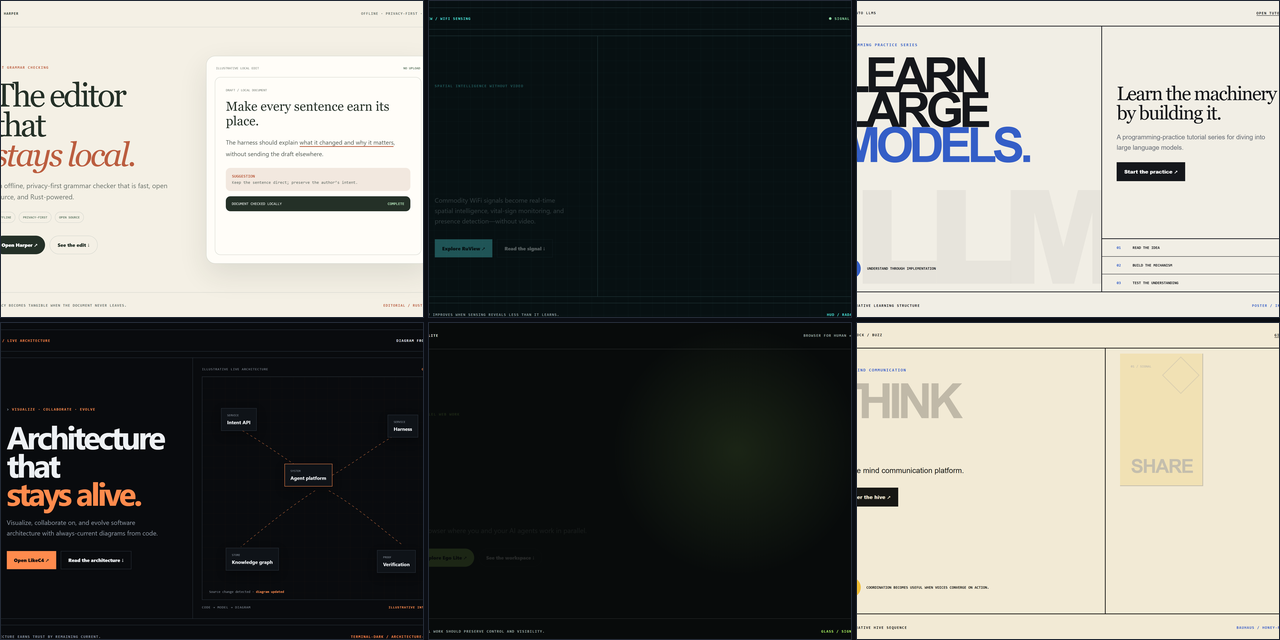
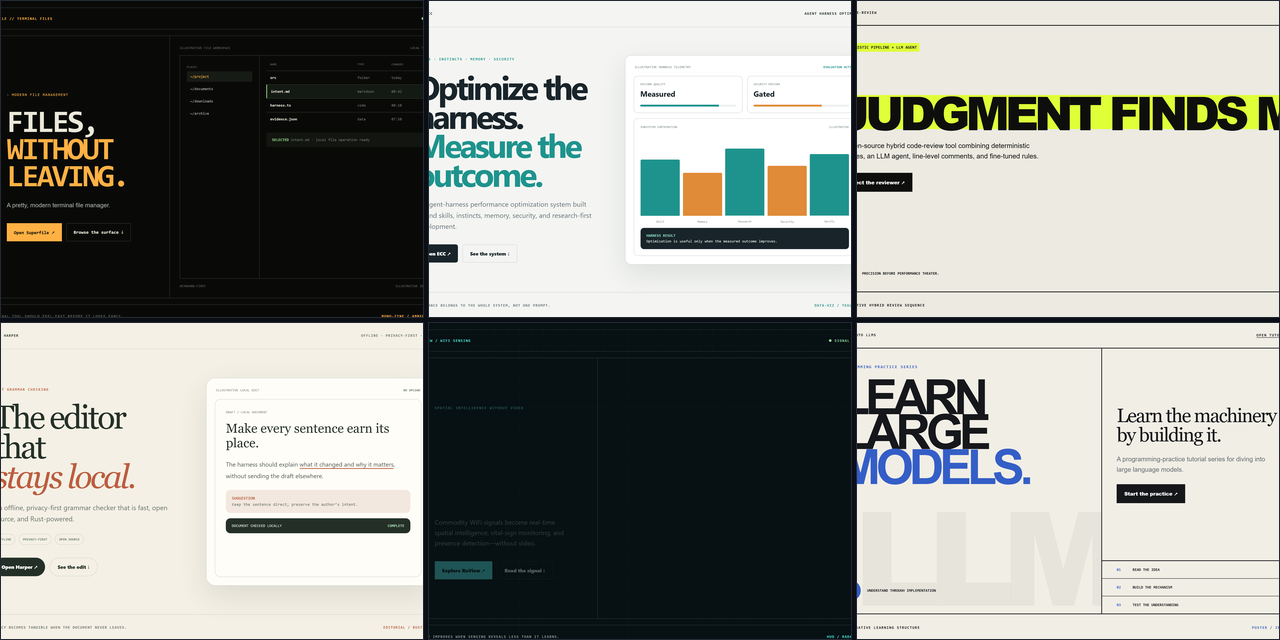
Design rep 2026-07-25: 3 mocks (brutalist/acid-yellow, data-viz/teal-orange, mono-zine/amber-green)

diff --git a/index.html b/index.html
@@ -4,17 +4,17 @@
 <meta charset="utf-8">
 <meta name="viewport" content="width=device-width, initial-scale=1">
 <title>GooseDesigns &mdash; Daily UI Design Inspiration from Trending GitHub Repos</title>
-<meta name="description" content="A fresh set of landing-page and hero-section UI design mockups every morning - AI, agents, dev tools, LLMs. Browse 129 mocks across 43 days in rotating visual styles.">
+<meta name="description" content="A fresh set of landing-page and hero-section UI design mockups every morning - AI, agents, dev tools, LLMs. Browse 132 mocks across 44 days in rotating visual styles.">
 <link rel="canonical" href="https://newgoosefactory.github.io/GooseDesigns/">
 <meta name="theme-color" content="#0b0e14">
 <meta property="og:type" content="website">
 <meta property="og:title" content="GooseDesigns &mdash; Daily UI Design Inspiration">
-<meta property="og:description" content="A fresh set of landing-page and hero-section UI design mockups every morning - AI, agents, dev tools, LLMs. Browse 129 mocks across 43 days in rotating visual styles.">
+<meta property="og:description" content="A fresh set of landing-page and hero-section UI design mockups every morning - AI, agents, dev tools, LLMs. Browse 132 mocks across 44 days in rotating visual styles.">
 <meta property="og:image" content="https://newgoosefactory.github.io/GooseDesigns/assets/banner.png">
 <meta property="og:url" content="https://newgoosefactory.github.io/GooseDesigns/">
 <meta name="twitter:card" content="summary_large_image">
 <meta name="twitter:title" content="GooseDesigns &mdash; Daily UI Design Inspiration">
-<meta name="twitter:description" content="A fresh set of landing-page and hero-section UI design mockups every morning - AI, agents, dev tools, LLMs. Browse 129 mocks across 43 days in rotating visual styles.">
+<meta name="twitter:description" content="A fresh set of landing-page and hero-section UI design mockups every morning - AI, agents, dev tools, LLMs. Browse 132 mocks across 44 days in rotating visual styles.">
 <meta name="twitter:image" content="https://newgoosefactory.github.io/GooseDesigns/assets/banner.png">
 <script>document.documentElement.className='js';</script>
 <style>:root{--bg:#0b0e14;--panel:#0f141d;--border:#1f2733;--text:#e6edf3;--muted:#8b98a9;--accent:#5eead4;--maxw:1120px}
@@ -88,17 +88,17 @@ html.js.revealed .reveal{opacity:1;transform:none}
 <main class="content">
   <p class="lead reveal">A fresh set of landing-page &amp; hero-section UI mockups every morning &mdash; AI, agents, dev tools, LLMs &mdash; each reimagined in a rotating visual style.</p>
   <section class="stats reveal">
-    <div><b>129</b><span>mocks</span></div>
-    <div><b>43</b><span>days</span></div>
+    <div><b>132</b><span>mocks</span></div>
+    <div><b>44</b><span>days</span></div>
     <div><b>14</b><span>style families</span></div>
     <div><b>Daily</b><span>updated 6am CT</span></div>
   </section>
   <section class="reveal">
-    <div class="sec-head"><h2>Latest &mdash; Friday, July 24</h2><a class="more" href="catalog.html?day=2026-07-24">See all 129 in the catalog &rarr;</a></div>
+    <div class="sec-head"><h2>Latest &mdash; Saturday, July 25</h2><a class="more" href="catalog.html?day=2026-07-25">See all 132 in the catalog &rarr;</a></div>
     <div class="grid">
-      <a class="mock" href="days/2026-07-24/01-dive-into-llms.html"><span class="shot"><img loading="lazy" src="days/2026-07-24/01-dive-into-llms.png" alt="Lordog/dive-into-llms landing-page hero mock, poster style"></span><span class="mm"><b>Lordog/dive-into-llms</b><i>poster</i></span></a>
-      <a class="mock" href="days/2026-07-24/02-ruview.html"><span class="shot"><img loading="lazy" src="days/2026-07-24/02-ruview.png" alt="ruvnet/RuView landing-page hero mock, hud style"></span><span class="mm"><b>ruvnet/RuView</b><i>hud</i></span></a>
-      <a class="mock" href="days/2026-07-24/03-harper.html"><span class="shot"><img loading="lazy" src="days/2026-07-24/03-harper.png" alt="Automattic/harper landing-page hero mock, editorial style"></span><span class="mm"><b>Automattic/harper</b><i>editorial</i></span></a>
+      <a class="mock" href="days/2026-07-25/01-open-code-review.html"><span class="shot"><img loading="lazy" src="days/2026-07-25/01-open-code-review.png" alt="alibaba/open-code-review landing-page hero mock, brutalist style"></span><span class="mm"><b>alibaba/open-code-review</b><i>brutalist</i></span></a>
+      <a class="mock" href="days/2026-07-25/02-ecc.html"><span class="shot"><img loading="lazy" src="days/2026-07-25/02-ecc.png" alt="affaan-m/ECC landing-page hero mock, data-viz style"></span><span class="mm"><b>affaan-m/ECC</b><i>data-viz</i></span></a>
+      <a class="mock" href="days/2026-07-25/03-superfile.html"><span class="shot"><img loading="lazy" src="days/2026-07-25/03-superfile.png" alt="yorukot/superfile landing-page hero mock, mono-zine style"></span><span class="mm"><b>yorukot/superfile</b><i>mono-zine</i></span></a>
     </div>
   </section>
   <section class="reveal">
@@ -121,7 +121,7 @@ html.js.revealed .reveal{opacity:1;transform:none}
     </div>
   </section>
   <section class="reveal cta">
-    <a class="btn primary" href="catalog.html">Browse all 129 mocks &rarr;</a>
+    <a class="btn primary" href="catalog.html">Browse all 132 mocks &rarr;</a>
     <a class="btn" href="https://github.com/NewGooseFactory/GooseDesigns">View source on GitHub</a>
   </section>
   <footer class="foot reveal">An automation reads GitHub Trending each morning, designs hero mocks in a rotating style, and regenerates this gallery &mdash; no generic AI-gradient slop. &middot; <a href="https://github.com/NewGooseFactory/GooseDesigns/blob/main/DESIGN.md">Design system</a> &middot; <a href="https://github.com/NewGooseFactory/GooseDesigns/blob/main/ledger.md">Taste ledger</a></footer>

diff --git a/days/2026-07-25/02-ecc.html b/days/2026-07-25/02-ecc.html
@@ -1,0 +1,4 @@
+<!doctype html><html lang="en"><head><meta charset="utf-8"><meta name="viewport" content="width=device-width,initial-scale=1"><title>ECC — Optimize the Harness, Not the Hype</title><style>
+:root{--bg:#f4f5f2;--ink:#18242a;--teal:#1e938d;--orange:#df8b38;--muted:#68747a;--line:#d0d6d4;--card:#fff}*{box-sizing:border-box}html{background:var(--bg);color:var(--ink);font-family:Inter,"Segoe UI",Arial,sans-serif}body{margin:0;min-height:100vh}.page{min-height:100vh;display:grid;grid-template-rows:72px 1fr 68px;padding:0 34px}.nav,.foot{display:flex;align-items:center;justify-content:space-between;border-color:var(--line);font:600 10px ui-monospace,SFMono-Regular,Consolas,monospace;text-transform:uppercase;letter-spacing:.11em}.nav{border-bottom:1px solid var(--line)}.foot{border-top:1px solid var(--line);color:var(--muted)}.brand{display:flex;align-items:center;gap:11px}.brand:before{content:"E";width:28px;height:28px;display:grid;place-items:center;background:var(--teal);color:white;font-weight:800}.hero{display:grid;grid-template-columns:.86fr 1.14fr;gap:6vw;align-items:center;padding:6vh 1vw}.copy{max-width:650px}.eyebrow{color:var(--teal);font:700 10px ui-monospace,monospace;letter-spacing:.14em;text-transform:uppercase}h1{font-size:clamp(62px,6.8vw,108px);line-height:.88;letter-spacing:-.075em;margin:28px 0}h1 em{display:block;color:var(--teal);font-style:normal}.lede{font-size:18px;line-height:1.62;color:var(--muted);max-width:600px;margin:0}.actions{display:flex;gap:12px;flex-wrap:wrap;margin-top:34px}.btn{min-height:48px;padding:0 19px;display:inline-flex;align-items:center;background:var(--ink);color:white;text-decoration:none;font-size:13px;font-weight:800;border-radius:6px}.btn.alt{background:transparent;color:var(--ink);border:1px solid var(--line)}.btn:hover,.btn:focus-visible{background:var(--teal);color:white;transform:translateY(-2px)}.dash{border:1px solid var(--line);border-radius:16px;background:var(--card);padding:22px;box-shadow:0 25px 70px rgba(24,36,42,.1)}.dash-head{display:flex;justify-content:space-between;padding:3px 2px 18px;color:var(--muted);font:500 9px ui-monospace,monospace;text-transform:uppercase}.dash-head strong{color:var(--teal)}.score{display:grid;grid-template-columns:1fr 1fr;gap:12px}.metric{border:1px solid var(--line);border-radius:11px;padding:16px}.metric small{display:block;color:var(--muted);font:500 8px ui-monospace,monospace;text-transform:uppercase}.metric b{display:block;font-size:20px;margin-top:7px}.meter{height:5px;background:#edf0ee;margin-top:16px;overflow:hidden;border-radius:5px}.meter i{display:block;height:100%;background:var(--teal)}.metric:nth-child(2) .meter i{background:var(--orange)}.chart{margin-top:14px;border:1px solid var(--line);border-radius:11px;padding:17px}.chart-title{display:flex;justify-content:space-between;color:var(--muted);font:500 8px ui-monospace,monospace;text-transform:uppercase}.bars{height:230px;display:flex;align-items:flex-end;gap:8px;padding-top:24px}.bar{flex:1;background:var(--teal);border-radius:3px 3px 0 0;position:relative}.bar:nth-child(2n){background:var(--orange)}.bar span{position:absolute;bottom:-20px;left:50%;transform:translateX(-50%);color:var(--muted);font:8px ui-monospace,monospace}.note{margin-top:32px;padding:13px 15px;background:var(--ink);color:#d8dedb;border-radius:9px;font:10px/1.5 ui-monospace,monospace}.note strong{color:#8cd8c3}.foot strong{color:var(--teal)}
+@media(max-width:900px){.hero{grid-template-columns:1fr;padding:60px 0;gap:50px}.page{padding:0 18px}}@media(max-width:560px){h1{font-size:53px}.score{grid-template-columns:1fr}.foot{padding:18px 0;gap:12px;align-items:flex-start;flex-direction:column}}@media(prefers-reduced-motion:no-preference){.copy>*{animation:rise .62s cubic-bezier(.22,1,.36,1) both}.copy h1{animation-delay:.06s}.dash{animation:rise .72s .08s cubic-bezier(.22,1,.36,1) both}.bar{animation:grow .8s .35s cubic-bezier(.22,1,.36,1) both;transform-origin:bottom}@keyframes rise{from{opacity:0;transform:translateY(17px)}}@keyframes grow{from{transform:scaleY(.08)}}}
+</style></head><body><main class="page"><nav class="nav"><div class="brand">ECC</div><span>Agent harness optimization</span></nav><section class="hero"><div class="copy"><div class="eyebrow">Skills · instincts · memory · security</div><h1>Optimize the harness.<em>Measure the outcome.</em></h1><p class="lede">An agent-harness performance optimization system built around skills, instincts, memory, security, and research-first development.</p><div class="actions"><a class="btn" href="https://github.com/affaan-m/ECC">Open ECC ↗</a><a class="btn alt" href="#metrics">See the system ↓</a></div></div><div class="dash" id="metrics"><div class="dash-head"><span>Illustrative harness telemetry</span><strong>Evaluation active</strong></div><div class="score"><div class="metric"><small>Outcome quality</small><b>Measured</b><div class="meter"><i style="width:82%"></i></div></div><div class="metric"><small>Security posture</small><b>Gated</b><div class="meter"><i style="width:71%"></i></div></div></div><div class="chart"><div class="chart-title"><span>Subsystem contribution</span><span>Illustrative</span></div><div class="bars"><div class="bar" style="height:72%"><span>Skill</span></div><div class="bar" style="height:55%"><span>Memory</span></div><div class="bar" style="height:86%"><span>Research</span></div><div class="bar" style="height:64%"><span>Security</span></div><div class="bar" style="height:79%"><span>Verify</span></div></div><div class="note"><strong>HARNESS RESULT</strong><br>Optimization is useful only when the measured outcome improves.</div></div></div></section><footer class="foot"><span>Performance belongs to the whole system, not one prompt.</span><strong>data-viz / teal-orange</strong></footer></main></body></html>

diff --git a/days/2026-07-25/03-superfile.html b/days/2026-07-25/03-superfile.html
@@ -1,0 +1,4 @@
+<!doctype html><html lang="en"><head><meta charset="utf-8"><meta name="viewport" content="width=device-width,initial-scale=1"><title>Superfile — Files, Without Leaving the Terminal</title><style>
+:root{--black:#090a08;--paper:#ece9da;--amber:#ffb144;--green:#9ddd89;--muted:#737970;--line:#30352e}*{box-sizing:border-box}html{background:var(--black);color:var(--paper);font-family:ui-monospace,SFMono-Regular,Consolas,monospace}body{margin:0;min-height:100vh;background:repeating-linear-gradient(0deg,transparent 0 3px,rgba(255,255,255,.012) 4px)}.page{min-height:100vh;padding:20px;display:grid;grid-template-rows:58px 1fr 62px;gap:16px}.bar,.foot{border:1px solid var(--line);display:flex;align-items:center;justify-content:space-between;padding:0 17px;text-transform:uppercase;font-size:10px;letter-spacing:.12em}.brand{color:var(--amber);font-weight:700}.status{display:flex;align-items:center;gap:8px;color:var(--green)}.status:before{content:"";width:7px;height:7px;border-radius:50%;background:var(--green)}.hero{display:grid;grid-template-columns:.82fr 1.18fr;border:1px solid var(--line)}.copy{padding:clamp(44px,6vw,86px);border-right:1px solid var(--line);display:flex;flex-direction:column;justify-content:center}.prompt{color:var(--amber);font-size:10px;text-transform:uppercase;letter-spacing:.13em}.prompt:before{content:"> ";color:var(--muted)}h1{font-size:clamp(58px,6.5vw,103px);line-height:.86;letter-spacing:-.07em;text-transform:uppercase;margin:29px 0}h1 span{display:block;color:var(--amber)}.lede{color:#a9afa7;font:16px/1.65 Arial,"Segoe UI",sans-serif;max-width:580px;margin:0}.actions{display:flex;gap:12px;margin-top:34px;flex-wrap:wrap}.btn{min-height:48px;padding:0 18px;display:inline-flex;align-items:center;border:1px solid var(--amber);background:var(--amber);color:var(--black);text-decoration:none;font-size:12px;font-weight:800}.btn.alt{background:transparent;color:var(--paper);border-color:var(--line)}.btn:hover,.btn:focus-visible{box-shadow:0 0 0 4px rgba(255,177,68,.1);transform:translateY(-2px)}.terminal{padding:26px;display:grid;grid-template-rows:auto 1fr auto;gap:14px}.term-head,.term-foot{display:flex;justify-content:space-between;color:var(--muted);font-size:9px;text-transform:uppercase}.window{border:1px solid var(--line);min-height:590px;display:grid;grid-template-columns:210px 1fr}.tree{border-right:1px solid var(--line);padding:18px}.tree small{color:var(--muted);font-size:8px;text-transform:uppercase}.entry{padding:8px 9px;margin-top:5px;color:#aeb4ab;font-size:10px}.entry.active{background:#171b15;color:var(--amber)}.files{padding:18px}.files-head{display:grid;grid-template-columns:1fr 90px 90px;padding:0 10px 12px;color:var(--muted);font-size:8px;text-transform:uppercase}.row{display:grid;grid-template-columns:1fr 90px 90px;align-items:center;padding:12px 10px;border-top:1px solid var(--line);font-size:10px}.row b{color:var(--paper)}.row span{color:var(--muted)}.row.selected{background:#131913;border-left:2px solid var(--green)}.command{margin-top:18px;padding:13px 15px;background:#121510;color:var(--muted);font-size:10px}.command strong{color:var(--green)}.foot{color:var(--muted)}.foot strong{color:var(--amber)}
+@media(max-width:900px){.hero{grid-template-columns:1fr}.copy{border-right:0;border-bottom:1px solid var(--line)}.page{padding:10px}}@media(max-width:560px){h1{font-size:52px}.window{grid-template-columns:1fr}.tree{display:none}.files-head,.row{grid-template-columns:1fr 70px}.files-head span:last-child,.row span:last-child{display:none}.foot{padding:18px;gap:12px;align-items:flex-start;flex-direction:column}}@media(prefers-reduced-motion:no-preference){.copy>*{animation:rise .62s cubic-bezier(.22,1,.36,1) both}.copy h1{animation-delay:.06s}.terminal{animation:rise .72s .08s cubic-bezier(.22,1,.36,1) both}@keyframes rise{from{opacity:0;transform:translateY(17px)}}}
+</style></head><body><main class="page"><header class="bar"><div class="brand">superfile // terminal files</div><div class="status">ready</div></header><section class="hero"><div class="copy"><div class="prompt">Modern file management</div><h1>Files,<span>without leaving.</span></h1><p class="lede">A pretty, modern terminal file manager.</p><div class="actions"><a class="btn" href="https://github.com/yorukot/superfile">Open Superfile ↗</a><a class="btn alt" href="#files">Browse the surface ↓</a></div></div><div class="terminal" id="files"><div class="term-head"><span>Illustrative file workspace</span><span>local terminal</span></div><div class="window"><aside class="tree"><small>Places</small><div class="entry active">~/project</div><div class="entry">~/documents</div><div class="entry">~/downloads</div><div class="entry">~/archive</div></aside><section class="files"><div class="files-head"><span>Name</span><span>Type</span><span>Changed</span></div><div class="row"><b>src</b><span>folder</span><span>today</span></div><div class="row selected"><b>intent.md</b><span>markdown</span><span>08:42</span></div><div class="row"><b>harness.ts</b><span>code</span><span>08:10</span></div><div class="row"><b>evidence.json</b><span>data</span><span>07:58</span></div><div class="command"><strong>SELECTED</strong> intent.md · local file operation ready</div></section></div><div class="term-foot"><span>Keyboard-first</span><span>Illustrative interface</span></div></div></section><footer class="foot"><span>A terminal tool should feel fast before it looks fancy.</span><strong>mono-zine / amber-green</strong></footer></main></body></html>

diff --git a/days/2026-07-25/01-open-code-review.html b/days/2026-07-25/01-open-code-review.html
@@ -1,0 +1,4 @@
+<!doctype html><html lang="en"><head><meta charset="utf-8"><meta name="viewport" content="width=device-width,initial-scale=1"><title>Open Code Review — Determinism Meets Judgment</title><style>
+:root{--paper:#eceae1;--ink:#0e0f0d;--acid:#dfff38;--muted:#5d6159;--line:#0e0f0d}*{box-sizing:border-box}html{background:var(--paper);color:var(--ink);font-family:Arial,Helvetica,sans-serif}body{margin:0;min-height:100vh}.page{min-height:100vh;display:grid;grid-template-rows:68px 1fr 70px;padding:0 28px}.nav,.foot{display:flex;align-items:center;justify-content:space-between;border-color:var(--line);font:800 10px ui-monospace,SFMono-Regular,Consolas,monospace;text-transform:uppercase;letter-spacing:.12em}.nav{border-bottom:2px solid var(--line)}.foot{border-top:2px solid var(--line)}.nav a{color:inherit;text-decoration:none;border-bottom:1px solid var(--ink)}.hero{display:grid;grid-template-columns:1.05fr .95fr;min-height:700px}.copy{padding:6vh 5vw 5vh 0;border-right:2px solid var(--line);display:flex;flex-direction:column;justify-content:space-between}.kicker{font:800 11px ui-monospace,monospace;text-transform:uppercase}.kicker span{background:var(--acid);padding:5px 7px}h1{font-size:clamp(72px,9.6vw,150px);line-height:.73;letter-spacing:-.095em;text-transform:uppercase;margin:30px 0}h1 strong{display:block;width:max-content;background:var(--acid);padding:0 .05em}.lede{font-size:18px;line-height:1.55;max-width:590px;margin:0}.btn{display:inline-flex;align-items:center;align-self:flex-start;min-height:50px;padding:0 20px;margin-top:30px;background:var(--ink);color:white;text-decoration:none;font-size:13px;font-weight:800}.btn:hover,.btn:focus-visible{background:var(--acid);color:var(--ink)}.rule{font:700 10px ui-monospace,monospace;text-transform:uppercase}.rule:before{content:"";display:inline-block;width:54px;height:2px;background:var(--ink);margin-right:14px;vertical-align:middle}.review{display:grid;grid-template-rows:repeat(4,1fr);padding-left:3vw}.stage{border-bottom:2px solid var(--line);display:grid;grid-template-columns:58px 1fr auto;align-items:center;gap:14px}.stage:last-child{border-bottom:0}.num{font:800 12px ui-monospace,monospace}.stage h2{font-size:clamp(28px,3.6vw,54px);text-transform:uppercase;letter-spacing:-.055em;margin:0}.stage p{font-size:12px;color:var(--muted);margin:6px 0 0}.badge{border:2px solid var(--ink);padding:7px 9px;font:800 8px ui-monospace,monospace;text-transform:uppercase}.stage:nth-child(3) .badge{background:var(--acid)}.foot span:last-child{background:var(--acid);padding:6px 8px}
+@media(max-width:850px){.page{padding:0 16px}.hero{grid-template-columns:1fr}.copy{border-right:0;border-bottom:2px solid var(--line);min-height:600px;padding-right:0}.review{padding-left:0}.stage{min-height:170px}}@media(max-width:560px){h1{font-size:61px}.stage{grid-template-columns:40px 1fr}.badge{grid-column:2;justify-self:start}.foot{padding:18px 0;gap:12px;align-items:flex-start;flex-direction:column}}@media(prefers-reduced-motion:no-preference){h1>*{animation:slide .62s cubic-bezier(.22,1,.36,1) both}h1 strong{animation-delay:.08s}.stage{animation:rise .65s cubic-bezier(.22,1,.36,1) both}.stage:nth-child(2){animation-delay:.06s}.stage:nth-child(3){animation-delay:.12s}.stage:nth-child(4){animation-delay:.18s}@keyframes slide{from{opacity:0;transform:translateX(-24px)}}@keyframes rise{from{opacity:0;transform:translateY(17px)}}}
+</style></head><body><main class="page"><nav class="nav"><strong>open-code-review</strong><a href="https://github.com/alibaba/open-code-review">GitHub ↗</a></nav><section class="hero"><div class="copy"><div><div class="kicker"><span>Deterministic pipeline + LLM agent</span></div><h1><span>Rules find risk.</span><strong>Judgment finds meaning.</strong></h1><p class="lede">An open-source hybrid code-review tool combining deterministic pipelines, an LLM agent, line-level comments, and fine-tuned rules.</p><a class="btn" href="https://github.com/alibaba/open-code-review">Inspect the reviewer ↗</a></div><div class="rule">Precision before performance theater.</div></div><div class="review" aria-label="Illustrative review pipeline"><article class="stage"><span class="num">01</span><div><h2>Parse</h2><p>Find the changed surface.</p></div><span class="badge">deterministic</span></article><article class="stage"><span class="num">02</span><div><h2>Rules</h2><p>Check known failure classes.</p></div><span class="badge">precise</span></article><article class="stage"><span class="num">03</span><div><h2>Agent</h2><p>Read the wider consequence.</p></div><span class="badge">active</span></article><article class="stage"><span class="num">04</span><div><h2>Comment</h2><p>Return line-level evidence.</p></div><span class="badge">output</span></article></div></section><footer class="foot"><span>Illustrative hybrid review sequence</span><span>brutalist / acid-yellow</span></footer></main></body></html>

diff --git a/catalog.html b/catalog.html
@@ -3,17 +3,17 @@
 <head>
 <meta charset="utf-8">
 <meta name="viewport" content="width=device-width, initial-scale=1">
-<title>Catalog &mdash; GooseDesigns &middot; 129 daily UI hero mockups</title>
-<meta name="description" content="Browse every GooseDesigns hero mock &mdash; 129 landing-page UI designs across 43 days, filterable by visual style. Click any card to open the live mock.">
+<title>Catalog &mdash; GooseDesigns &middot; 132 daily UI hero mockups</title>
+<meta name="description" content="Browse every GooseDesigns hero mock &mdash; 132 landing-page UI designs across 44 days, filterable by visual style. Click any card to open the live mock.">
 <link rel="canonical" href="https://newgoosefactory.github.io/GooseDesigns/catalog.html">
 <meta name="theme-color" content="#0b0e14">
 <meta property="og:type" content="website">
-<meta property="og:title" content="GooseDesigns Catalog &mdash; 129 daily UI hero mockups">
+<meta property="og:title" content="GooseDesigns Catalog &mdash; 132 daily UI hero mockups">
 <meta property="og:description" content="Every hero mock, newest first &mdash; filterable by visual style.">
 <meta property="og:image" content="https://newgoosefactory.github.io/GooseDesigns/assets/banner.png">
 <meta property="og:url" content="https://newgoosefactory.github.io/GooseDesigns/catalog.html">
 <meta name="twitter:card" content="summary_large_image">
-<meta name="twitter:title" content="GooseDesigns Catalog &mdash; 129 daily UI hero mockups">
+<meta name="twitter:title" content="GooseDesigns Catalog &mdash; 132 daily UI hero mockups">
 <meta name="twitter:image" content="https://newgoosefactory.github.io/GooseDesigns/assets/banner.png">
 <style>:root{--bg:#0b0e14;--panel:#0f141d;--border:#1f2733;--text:#e6edf3;--muted:#8b98a9;--accent:#5eead4;--maxw:1160px}
 *{box-sizing:border-box}
@@ -56,12 +56,12 @@ img{display:block;max-width:100%}
 <body>
 <div class="bar">
   <a class="wm" href="./">Goose<b>Designs</b></a>
-  <div class="right"><span>129 mocks &middot; 43 days</span><a href="https://github.com/NewGooseFactory/GooseDesigns">GitHub</a></div>
+  <div class="right"><span>132 mocks &middot; 44 days</span><a href="https://github.com/NewGooseFactory/GooseDesigns">GitHub</a></div>
 </div>
 <header class="wrap head">
   <p class="kicker">Catalog</p>
   <h1>Every mock, newest first</h1>
-  <p>The complete archive of daily hero &amp; landing-page UI mockups &mdash; 129 designs across 43 days in 14 rotating visual styles. Filter by style, then open any card to view the live mock.</p>
+  <p>The complete archive of daily hero &amp; landing-page UI mockups &mdash; 132 designs across 44 days in 14 rotating visual styles. Filter by style, then open any card to view the live mock.</p>
 </header>
 <div class="wrap">
   <nav class="filters" aria-label="Filter by visual style">
@@ -81,6 +81,14 @@ img{display:block;max-width:100%}
     <button type="button" class="f" data-f="terminal-dark">terminal-dark</button>
     <button type="button" class="f" data-f="warm-minimal">warm-minimal</button>
   </nav>
+  <section class="day" data-day="2026-07-25">
+    <h2>Saturday, July 25 <span>2026-07-25 &middot; 3 mocks</span></h2>
+    <div class="grid">
+      <a class="mock" data-style="brutalist" href="days/2026-07-25/01-open-code-review.html"><span class="shot"><img loading="lazy" src="days/2026-07-25/01-open-code-review.png" alt="alibaba/open-code-review landing-page hero mock, brutalist style"></span><span class="mm"><b>alibaba/open-code-review</b><i>brutalist</i></span></a>
+      <a class="mock" data-style="data-viz" href="days/2026-07-25/02-ecc.html"><span class="shot"><img loading="lazy" src="days/2026-07-25/02-ecc.png" alt="affaan-m/ECC landing-page hero mock, data-viz style"></span><span class="mm"><b>affaan-m/ECC</b><i>data-viz</i></span></a>
+      <a class="mock" data-style="mono-zine" href="days/2026-07-25/03-superfile.html"><span class="shot"><img loading="lazy" src="days/2026-07-25/03-superfile.png" alt="yorukot/superfile landing-page hero mock, mono-zine style"></span><span class="mm"><b>yorukot/superfile</b><i>mono-zine</i></span></a>
+    </div>
+  </section>
   <section class="day" data-day="2026-07-24">
     <h2>Friday, July 24 <span>2026-07-24 &middot; 3 mocks</span></h2>
     <div class="grid">

diff --git a/concept.md b/concept.md
@@ -3,7 +3,7 @@ title: Concept — Design Taste
 date: 2026-06-08
 type: concept
 status: active
-updated: 2026-07-23
+updated: 2026-07-24
 tags:
   - design
   - principles
@@ -33,7 +33,7 @@ Living distillation of what makes a landing/hero UI *land* for my audience (tech
 - **Turn a tagline or claim into a literal staged sequence (pipeline / arc) — make the *process* the hero.** When the pitch is really a sequence, rendering it as an explicit ordered arc lands: a 3-word tagline drawn as a numbered Learn->Build->Ship pipeline 2026-06-15 and a tagline staged as a literal Vibe->Decompose->Engineered arc 2026-06-19 both landed. Caveat — the stages must be real: a 5-stage run-ladder invented for a tagline-less repo only *mostly* landed because the metaphor carries more than the source proves 2026-06-20.
 
 - **Editorial restraint (serif + generous whitespace + a single warm accent) builds credibility for *methodology / thought-leadership* pieces where a dark dev-tool look would undercut it.** When the subject is a framework or a point of view rather than a tool, a calm editorial treatment reads as considered, not hyped: 18 personas as a newspaper deliberation council 2026-07-01 and an agentic methodology as a calm Georgia-serif manifesto with one burgundy italic word 2026-07-08 both landed. (Promoted from an open hypothesis once it landed twice across different repos.)
-- **Warm-minimal lowers intimidation around technically dense infrastructure and learning — without hiding the mechanism.** A cream or soft-neutral canvas lowers the emotional temperature while one concrete device/flow diagram still proves the claim: fully-local dictation as a calm waveform-to-text device 2026-06-28, a 100%-local meeting assistant as a soft transcription→summary flow 2026-07-05, and secure WireGuard+2FA as a warm three-node tailnet around a central trust check 2026-07-11. A fourth landed rep extends the pattern beyond security into systems learning: a warm choose→deconstruct→rebuild→explain workbench stayed approachable without diluting the technical premise 2026-07-17. Warmth is not decoration; it lowers the emotional temperature while concrete mechanism preserves rigor.
+- **Warm-minimal lowers intimidation around technically dense infrastructure and learning — without hiding the mechanism.** A cream or soft-neutral canvas lowers the emotional temperature while one concrete device/flow diagram still proves the claim: fully-local dictation as a calm waveform-to-text device 2026-06-28, a 100%-local meeting assistant as a soft transcription→summary flow 2026-07-05, and secure WireGuard+2FA as a warm three-node tailnet around a central trust check 2026-07-11. A fourth landed rep extends the pattern beyond security into systems learning: a warm choose→deconstruct→rebuild→explain workbench stayed approachable without diluting the technical premise 2026-07-17. Warmth is not decoration; it lowers the emotional temperature while concrete mechanism preserves rigor. **Extended 2026-07-24:** an offline grammar companion made privacy a quiet product behavior—not a badge—reconfirming that local/private tools land when calm presentation is paired with one concrete interaction 2026-07-24.
 ## Anti-patterns (repeated misses)
 - **A small *sample of an inventory* (a few-row rack, an N-node grid) reads thin/toy — show one *produced result/state* instead.** When the artifact depicts a representative slice of a large set, it underdelivers because the slice looks like the whole: a four-row "skills rack" *mostly* landed but the sample "risks looking thin" 2026-06-18; an eight-pod cluster grid *mostly* landed but "edges toward toy" 2026-06-17. The reliable fix is to render a concrete **result the product produces** rather than a roster of what it contains — a knowledge-graph readout 2026-06-18 and a read->edit->test diff transcript 2026-06-18 both *landed* the same day the rack only mostly did, and an instrument *readout* 2026-06-17 beat the pod *grid* of its day. Show state/result, not inventory. **Corollary — uniform *symmetric / parallel* N-card layouts trip the same wire:** equal-weight cards in a tidy row read as a template even when the copy is good — a Build·Ship·Iterate three-card triad *mostly* landed but "symmetry risks looking template" 2026-06-19, echoing the four-row rack of the day before 2026-06-18. Break the symmetry (vary weight/size, or replace one card with a real produced result) instead of shipping a clean parallel grid.
 

diff --git a/README.md b/README.md
@@ -2,11 +2,11 @@
 
 ![GooseDesigns — a daily montage of hero and landing-page UI design mockups for trending GitHub repositories](assets/banner.png)
 
-![Updated daily](https://img.shields.io/badge/updated-daily-5eead4?style=flat-square) ![129 mocks](https://img.shields.io/badge/mocks-129-1f6feb?style=flat-square) ![43 days](https://img.shields.io/badge/days-43-30363d?style=flat-square) [![Live site](https://img.shields.io/badge/live-GitHub%20Pages-2ea043?style=flat-square)](https://newgoosefactory.github.io/GooseDesigns/) ![License MIT](https://img.shields.io/badge/license-MIT-2ea043?style=flat-square)
+![Updated daily](https://img.shields.io/badge/updated-daily-5eead4?style=flat-square) ![132 mocks](https://img.shields.io/badge/mocks-132-1f6feb?style=flat-square) ![44 days](https://img.shields.io/badge/days-44-30363d?style=flat-square) [![Live site](https://img.shields.io/badge/live-GitHub%20Pages-2ea043?style=flat-square)](https://newgoosefactory.github.io/GooseDesigns/) ![License MIT](https://img.shields.io/badge/license-MIT-2ea043?style=flat-square)
 
 **A fresh set of landing-page and hero-section design mockups every morning.** GooseDesigns is an automated design-practice gallery: each day it reads [GitHub Trending](https://github.com/trending), picks the most interesting repositories — AI, autonomous agents, developer tools, local LLMs, and PKM — and reimagines each project's **hero / landing-page UI** in a rotating visual style. Real product copy, accessible contrast, intentional motion, and no generic AI-gradient slop.
 
-Use it for **UI inspiration, web-design examples, landing-page ideas, and front-end reference** — 129 mockups across 43 days and 14 style families, updated daily. See the **[full design catalog](CATALOG.md)** or the **[live gallery](https://newgoosefactory.github.io/GooseDesigns/)**.
+Use it for **UI inspiration, web-design examples, landing-page ideas, and front-end reference** — 132 mockups across 44 days and 14 style families, updated daily. See the **[full design catalog](CATALOG.md)** or the **[live gallery](https://newgoosefactory.github.io/GooseDesigns/)**.
 
 ## Browse
 
@@ -15,20 +15,21 @@ Use it for **UI inspiration, web-design examples, landing-page ideas, and front-
 - **[Design Taste Ledger](ledger.md)** · **[Concept: Design Taste](concept.md)**
 - **[Design system & discoverability spec](DESIGN.md)** — palette, type scale, the four style families, and how this repo is built for reach
 
-## Latest — Friday, July 24
+## Latest — Saturday, July 25
 
 <table><tr>
-<td align="center" width="33%"><a href="days/2026-07-24/"><img src="days/2026-07-24/01-dive-into-llms.png" width="320" alt="Lordog/dive-into-llms"></a><br><sub><b>Lordog/dive-into-llms</b><br>poster</sub></td>
-<td align="center" width="33%"><a href="days/2026-07-24/"><img src="days/2026-07-24/02-ruview.png" width="320" alt="ruvnet/RuView"></a><br><sub><b>ruvnet/RuView</b><br>hud</sub></td>
-<td align="center" width="33%"><a href="days/2026-07-24/"><img src="days/2026-07-24/03-harper.png" width="320" alt="Automattic/harper"></a><br><sub><b>Automattic/harper</b><br>editorial</sub></td>
+<td align="center" width="33%"><a href="days/2026-07-25/"><img src="days/2026-07-25/01-open-code-review.png" width="320" alt="alibaba/open-code-review"></a><br><sub><b>alibaba/open-code-review</b><br>brutalist</sub></td>
+<td align="center" width="33%"><a href="days/2026-07-25/"><img src="days/2026-07-25/02-ecc.png" width="320" alt="affaan-m/ECC"></a><br><sub><b>affaan-m/ECC</b><br>data-viz</sub></td>
+<td align="center" width="33%"><a href="days/2026-07-25/"><img src="days/2026-07-25/03-superfile.png" width="320" alt="yorukot/superfile"></a><br><sub><b>yorukot/superfile</b><br>mono-zine</sub></td>
 </tr></table>
 
-[See the full day →](days/2026-07-24/)
+[See the full day →](days/2026-07-25/)
 
 ## All reps
 
 | Date | Day | Mocks | Styles | Page |
 |------|-----|-------|--------|------|
+| 2026-07-25 | Saturday | 3 | brutalist, data-viz, mono-zine | [open](days/2026-07-25/) |
 | 2026-07-24 | Friday | 3 | poster, hud, editorial | [open](days/2026-07-24/) |
 | 2026-07-23 | Thursday | 3 | bauhaus, glass, terminal-dark | [open](days/2026-07-23/) |
 | 2026-07-22 | Wednesday | 3 | data-viz, blueprint, warm-minimal | [open](days/2026-07-22/) |

diff --git a/CATALOG.md b/CATALOG.md
@@ -1,11 +1,14 @@
 # Catalog — every design rep
 
-Searchable master index. **129 mocks** across **43 days**. Newest first.
+Searchable master index. **132 mocks** across **44 days**. Newest first.
 
 Tip: press <kbd>t</kbd> in GitHub's file finder, or search e.g. `repo:NewGooseFactory/GooseDesigns blueprint` / a repo name / an idea keyword.
 
 | Date | Day | Repository | Style | Accent | Idea tested | Verdict | Preview | Page |
 |------|-----|------------|-------|--------|-------------|---------|---------|------|
+| 2026-07-25 | Saturday | [alibaba/open-code-review](https://github.com/alibaba/open-code-review) | brutalist | acid-yellow | expose hybrid review as parse→rules→agent→comment separating precision from judgment | landed: trust without an AI reviewer persona | [png](days/2026-07-25/01-open-code-review.png) | [2026-07-25](days/2026-07-25/) |
+| 2026-07-25 | Saturday | [affaan-m/ECC](https://github.com/affaan-m/ECC) | data-viz | teal-orange | frame harness optimization as measured skills, memory, research, security, and verification | landed: whole-system performance becomes the product | [png](days/2026-07-25/02-ecc.png) | [2026-07-25](days/2026-07-25/) |
+| 2026-07-25 | Saturday | [yorukot/superfile](https://github.com/yorukot/superfile) | mono-zine | amber-green | make terminal file management immediately usable through a tree, file list, and local operation | landed: modern without losing keyboard-first clarity | [png](days/2026-07-25/03-superfile.png) | [2026-07-25](days/2026-07-25/) |
 | 2026-07-24 | Friday | [Lordog/dive-into-llms](https://github.com/Lordog/dive-into-llms) | poster | ink-blue | turn an LLM tutorial into a learn→build→test manifesto rather than a course catalogue | landed: practice feels consequential without pretending it is effortless | [png](days/2026-07-24/01-dive-into-llms.png) | [2026-07-24](days/2026-07-24/) |
 | 2026-07-24 | Friday | [ruvnet/RuView](https://github.com/ruvnet/RuView) | hud | radar-cyan | show camera-free presence as a restrained radar instrument with explicit sensing source | landed: spatial intelligence is tangible while privacy stays central | [png](days/2026-07-24/02-ruview.png) | [2026-07-24](days/2026-07-24/) |
 | 2026-07-24 | Friday | [Automattic/harper](https://github.com/Automattic/harper) | editorial | rust-sage | make offline grammar checking a quiet editorial companion with one local edit | landed: privacy becomes behavior rather than a badge | [png](days/2026-07-24/03-harper.png) | [2026-07-24](days/2026-07-24/) |

diff --git a/styles/data-viz.md b/styles/data-viz.md
@@ -1,9 +1,10 @@
 # Style — data-viz
 
-8 mocks in this family. [Back to home](../README.md) · [Catalog](../CATALOG.md)
+9 mocks in this family. [Back to home](../README.md) · [Catalog](../CATALOG.md)
 
 | Date | Repository | Accent | Idea tested | Verdict | Preview |
 |------|------------|--------|-------------|---------|---------|
+| [2026-07-25](../days/2026-07-25/) | [affaan-m/ECC](https://github.com/affaan-m/ECC) | teal-orange | frame harness optimization as measured skills, memory, research, security, and verification | landed: whole-system performance becomes the product | [png](../days/2026-07-25/02-ecc.png) |
 | [2026-07-22](../days/2026-07-22/) | [koala73/worldmonitor](https://github.com/koala73/worldmonitor) | radar-green | unify global intelligence as a restrained signal field with three event classes | landed: situational awareness without manufactured urgency | [png](../days/2026-07-22/01-worldmonitor.png) |
 | [2026-07-19](../days/2026-07-19/) | [kvcache-ai/ktransformers](https://github.com/kvcache-ai/ktransformers) | cobalt-amber | explain heterogeneous optimization as deliberate workload placement across compute paths | landed: flexibility is visible without invented benchmarks | [png](../days/2026-07-19/01-ktransformers.png) |
 | [2026-07-14](../days/2026-07-14/) | [Shubhamsaboo/awesome-llm-apps](https://github.com/Shubhamsaboo/awesome-llm-apps) | teal | turn a 100+ runnable-app collection into a structured catalog map + clone→customize→ship pipeline | landed | [png](../days/2026-07-14/01-awesome-llm-apps.png) |

diff --git a/styles/mono-zine.md b/styles/mono-zine.md
@@ -1,9 +1,10 @@
 # Style — mono-zine
 
-5 mocks in this family. [Back to home](../README.md) · [Catalog](../CATALOG.md)
+6 mocks in this family. [Back to home](../README.md) · [Catalog](../CATALOG.md)
 
 | Date | Repository | Accent | Idea tested | Verdict | Preview |
 |------|------------|--------|-------------|---------|---------|
+| [2026-07-25](../days/2026-07-25/) | [yorukot/superfile](https://github.com/yorukot/superfile) | amber-green | make terminal file management immediately usable through a tree, file list, and local operation | landed: modern without losing keyboard-first clarity | [png](../days/2026-07-25/03-superfile.png) |
 | [2026-07-18](../days/2026-07-18/) | [KnockOutEZ/wigolo](https://github.com/KnockOutEZ/wigolo) | safety-orange | make local-first research tangible as one search→fetch→crawl→research terminal journey | landed: the no-key, no-cloud proposition reads as infrastructure | [png](../days/2026-07-18/03-wigolo.png) |
 | [2026-07-14](../days/2026-07-14/) | [virattt/ai-hedge-fund](https://github.com/virattt/ai-hedge-fund) | market-green | frame an AI hedge-fund team as coordinated committee judgment rather than a speculative trading chart | landed | [png](../days/2026-07-14/03-ai-hedge-fund.png) |
 | [2026-07-09](../days/2026-07-09/) | [vxcontrol/pentagi](https://github.com/vxcontrol/pentagi) | phosphor-green | render autonomous pentest as an ASCII kill-chain + tagged live engagement run-log | landed | [png](../days/2026-07-09/02-pentagi.png) |

diff --git a/styles/brutalist.md b/styles/brutalist.md
@@ -1,9 +1,10 @@
 # Style — brutalist
 
-6 mocks in this family. [Back to home](../README.md) · [Catalog](../CATALOG.md)
+7 mocks in this family. [Back to home](../README.md) · [Catalog](../CATALOG.md)
 
 | Date | Repository | Accent | Idea tested | Verdict | Preview |
 |------|------------|--------|-------------|---------|---------|
+| [2026-07-25](../days/2026-07-25/) | [alibaba/open-code-review](https://github.com/alibaba/open-code-review) | acid-yellow | expose hybrid review as parse→rules→agent→comment separating precision from judgment | landed: trust without an AI reviewer persona | [png](../days/2026-07-25/01-open-code-review.png) |
 | [2026-07-19](../days/2026-07-19/) | [1jehuang/jcode](https://github.com/1jehuang/jcode) | acid-yellow | expose the harness as intent→plan→execute→verify with no invisible magic | landed: the operating philosophy is unmistakable | [png](../days/2026-07-19/03-jcode.png) |
 | [2026-07-15](../days/2026-07-15/) | [openinterpreter/openinterpreter](https://github.com/openinterpreter/openinterpreter) | acid-lime | turn a low-cost coding agent into a blunt read→change→run→prove engineering promise | landed | [png](../days/2026-07-15/01-openinterpreter.png) |
 | [2026-07-10](../days/2026-07-10/) | [mattpocock/skills](https://github.com/mattpocock/skills) | acid-yellow | turn "Skills for Real Engineers" into a hard-edged manifesto with one acid block behind REAL | landed | [png](../days/2026-07-10/01-skills.png) |
